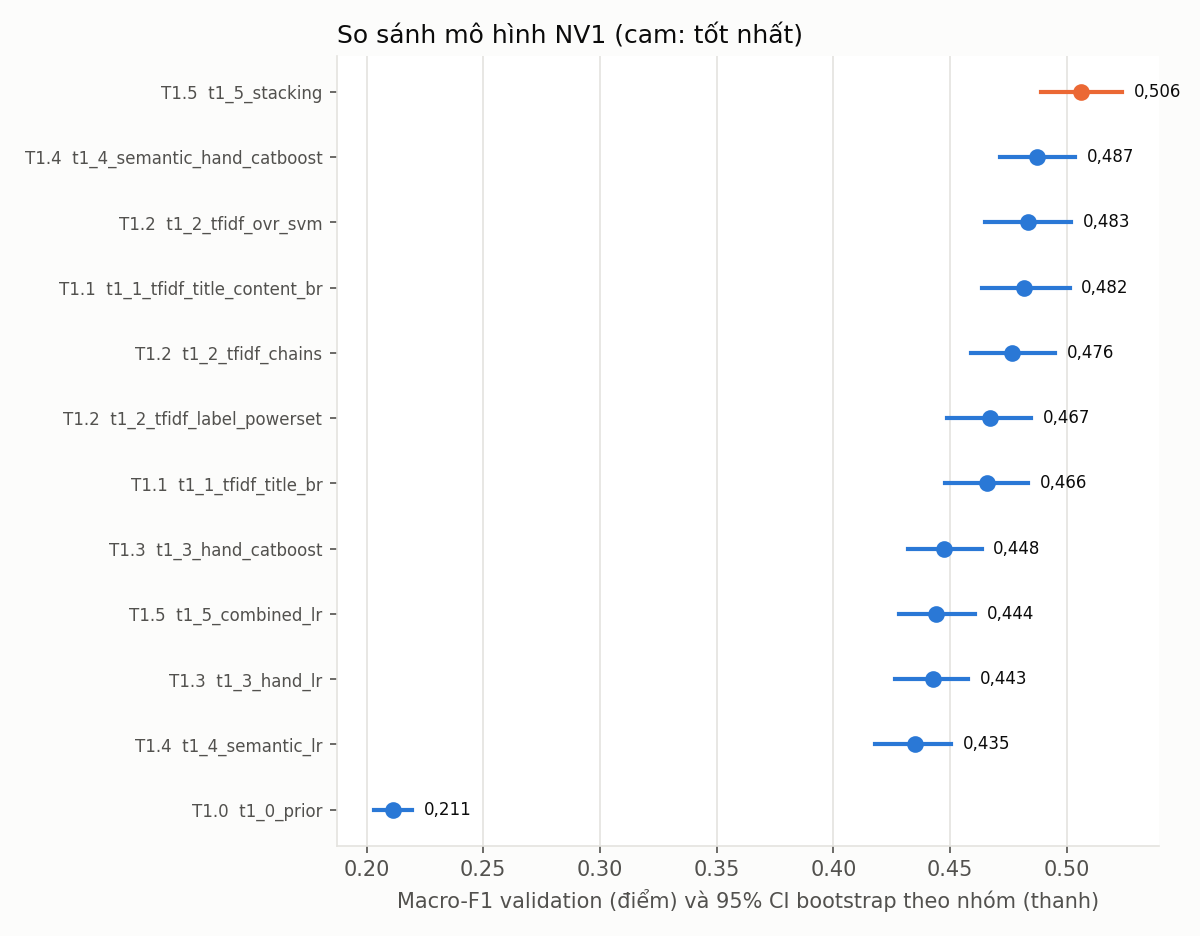
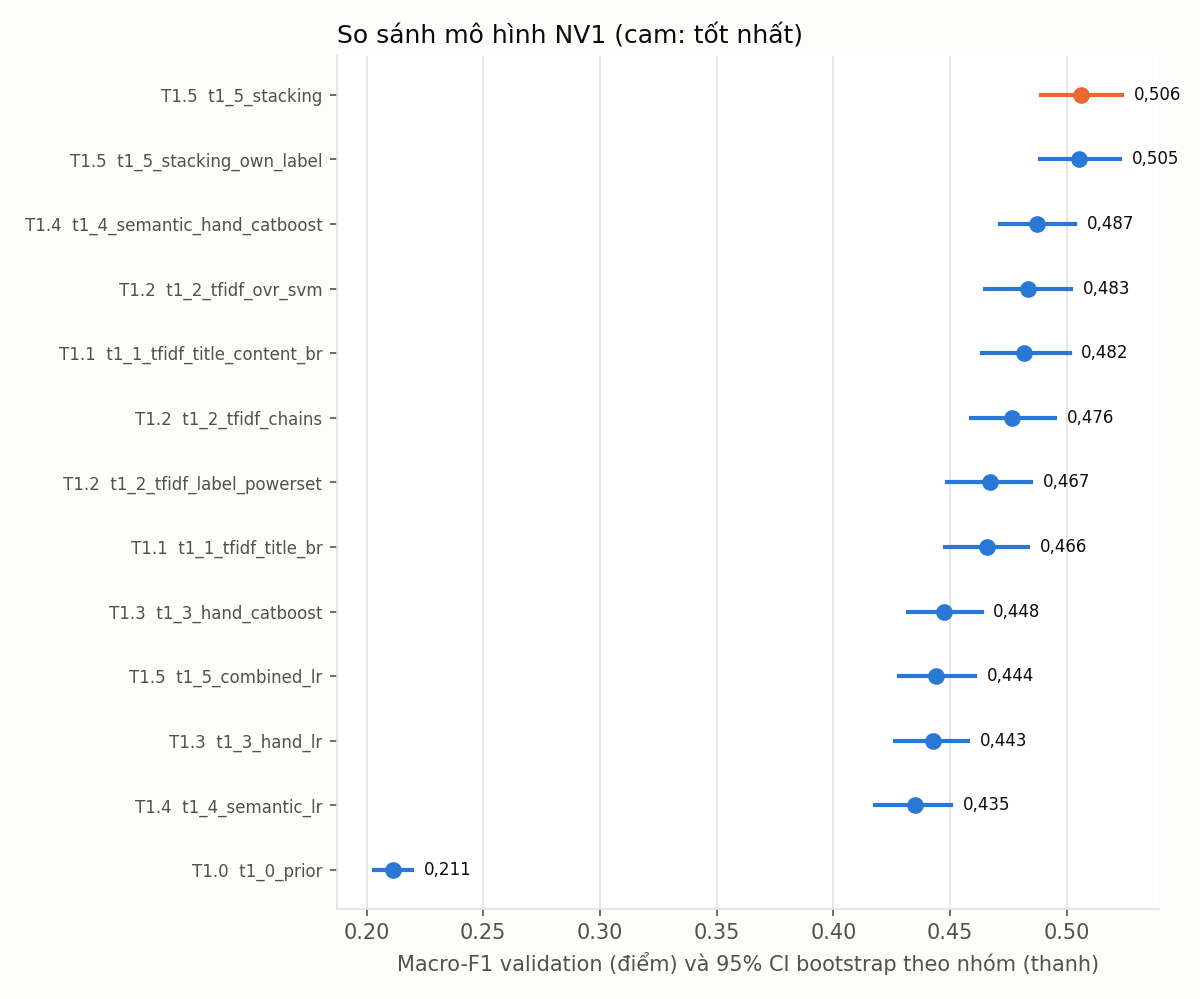
feat(type-classification): label-dependency and content ablations per label
Add StackingMeta(cross_label=False) and experiment t1_5_stacking_own_label: all-label logits give +0.001 Macro-F1 over own-label logits (p=0.43), so the stacking gain comes from fusing base models, not label dependency. Add per-label paired bootstrap (content helps Misleading, Emotional and Curiosity, not Question). Report answers the branch research questions; fix pipeline-bias wording and list extra training dependencies.

diff --git a/scripts/report_type_nv1.py b/scripts/report_type_nv1.py
@@ -114,6 +114,7 @@ def main():
         ("t1_2_tfidf_chains", "t1_1_tfidf_title_content_br"),
         ("t1_5_combined_lr", "t1_1_tfidf_title_content_br"),
         ("t1_5_stacking", "t1_5_combined_lr"),
+        ("t1_5_stacking", "t1_5_stacking_own_label"),
         ("t1_3_hand_catboost", "t1_0_prior"),
     ]
     tests = []
@@ -125,6 +126,27 @@ def main():
                 f"| `{a}` − `{b}` | {fmt(d['mean_diff'])} | [{fmt(d['ci95'][0])}; {fmt(d['ci95'][1])}] | "
                 f"{fmt(d['p_not_better'])} |"
             )
+    # ---- table 4b: per-label ablations (research questions 2 and 3 of the branch)
+    w("\n### Bảng 4b. Ablation theo từng nhãn (ΔF1, bootstrap ghép cặp theo nhóm leakage)\n")
+    w("| Ablation (A − B) | " + " | ".join(SHORT) + " |")
+    w("|---|" + "---:|" * 5)
+    ablations = [
+        ("Thêm nội dung", "t1_1_tfidf_title_content_br", "t1_1_tfidf_title_br"),
+        ("Logit mọi nhãn vs cùng nhãn", "t1_5_stacking", "t1_5_stacking_own_label"),
+    ]
+    label_tests = []
+    for name, a, b in ablations:
+        if a not in P or b not in P:
+            continue
+        cells = []
+        for i, t in enumerate(TYPES):
+            d = paired_bootstrap(P[a], TH[a], P[b], TH[b], Y, G, label=i)
+            label_tests.append({"ablation": name, "a": a, "b": b, "label": t, **d})
+            star = "*" if d["ci95"][0] > 0 or d["ci95"][1] < 0 else ""
+            v = f"{d['mean_diff']:+.3f}".replace("-0.000", "0.000").replace("+0.000", "0.000")
+            cells.append(f"{v}{star}".replace(".", ",").replace("-", "−"))
+        w(f"| {name} (`{a}` − `{b}`) | " + " | ".join(cells) + " |")
+    w("\n\\* khoảng tin cậy 95% không chứa 0.")
     # ---- table 5: per-label best method + logic
     w("\n### Bảng 5. Mô hình tốt nhất theo từng nhãn\n")
     w("| Nhãn | Mô hình tốt nhất | F1 | Mô hình chung tốt nhất (`" + best + "`) |")
@@ -160,6 +182,7 @@ def main():
         "best_overall": best,
         "best_per_label": best_per_label,
         "paired_tests": tests,
+        "per_label_ablations": label_tests,
         "errors_best": errors,
         "gold_i_predicted_j": conf.round(3).tolist(),
         "per_source_best": runs[best]["per_source_macro_f1"],

diff --git a/src/type_classification/multilabel.py b/src/type_classification/multilabel.py
@@ -280,14 +280,21 @@ CLASSIFIERS = {
 
 class StackingMeta:
     """Level-2 model: for each label, logistic regression on ALL base models' probabilities of
-    ALL labels -> learns cross-label dependencies (e.g. P(emotional) informs curiosity)."""
+    ALL labels -> learns cross-label dependencies (e.g. P(emotional) informs curiosity).
+    cross_label=False keeps only label k's columns from each base (ablation: does label
+    dependency help?). P is the base models' outputs stacked side by side, K columns each."""
 
-    def __init__(self, C=1.0):
-        self.C = C
+    def __init__(self, C=1.0, cross_label=True):
+        self.C, self.cross_label = C, cross_label
+
+    def _cols(self, k, n_cols):
+        return slice(None) if self.cross_label else list(range(k, n_cols, self.K))
 
     def fit(self, P, Y):
-        Z = self._z(P)
-        self.models = [_lr(self.C).fit(Z, Y[:, k]) for k in range(Y.shape[1])]
+        Z, self.K = self._z(P), Y.shape[1]
+        self.models = [
+            _lr(self.C).fit(Z[:, self._cols(k, Z.shape[1])], Y[:, k]) for k in range(self.K)
+        ]
         return self
 
     @staticmethod
@@ -297,4 +304,9 @@ class StackingMeta:
 
     def predict_proba(self, P):
         Z = self._z(P)
-        return np.column_stack([m.predict_proba(Z)[:, 1] for m in self.models])
+        return np.column_stack(
+            [
+                m.predict_proba(Z[:, self._cols(k, Z.shape[1])])[:, 1]
+                for k, m in enumerate(self.models)
+            ]
+        )

diff --git a/src/type_classification/evaluation.py b/src/type_classification/evaluation.py
@@ -99,9 +99,13 @@ def bootstrap_ci(P, Y, thresholds, groups, n=1000, seed=20261124, metric=macro_f
     return [float(np.percentile(stats, 2.5)), float(np.percentile(stats, 97.5))]
 
 
-def paired_bootstrap(Pa, tha, Pb, thb, Y, groups, n=2000, seed=20261124):
+def paired_bootstrap(Pa, tha, Pb, thb, Y, groups, n=2000, seed=20261124, label=None):
     """Macro-F1(a) - Macro-F1(b) on the same resampled groups: mean, 95% CI, one-sided p
-    (share of resamples where a is not better)."""
+    (share of resamples where a is not better). label=k compares F1 of label k only."""
+    if label is not None:
+        k = label
+        Pa, Pb, Y = Pa[:, [k]], Pb[:, [k]], Y[:, [k]]
+        tha, thb = [np.asarray(tha)[k]], [np.asarray(thb)[k]]
     rng = np.random.default_rng(seed)
     uniq, inv = np.unique(np.asarray(groups), return_inverse=True)
     members = [np.where(inv == g)[0] for g in range(len(uniq))]

diff --git a/tests/research/test_type_nv1.py b/tests/research/test_type_nv1.py
@@ -65,6 +65,17 @@ def test_stacking_meta_shapes():
     assert meta.predict_proba(np.hstack([P, P])).shape == Y.shape
 
 
+def test_stacking_own_label_ignores_other_labels():
+    X, Y = _toy()
+    P = multilabel.BinaryRelevance().fit(X, Y).predict_proba(X)
+    Ptr = np.hstack([P, P[::-1]])
+    meta = multilabel.StackingMeta(cross_label=False).fit(Ptr, Y)
+    Q = Ptr.copy()
+    Q[:, [1, 2, 3, 4, 6, 7, 8, 9]] = 0.5  # every column except label 0 of each base
+    assert np.allclose(meta.predict_proba(Ptr)[:, 0], meta.predict_proba(Q)[:, 0])
+    assert len(meta.models[0].coef_[0]) == 2
+
+
 def test_features_fit_only_on_given_rows():
     titles = ["giá vàng hôm nay", "giá xăng hôm nay", "vì sao giá vàng tăng"] * 4
     view = {

diff --git a/docs/type_classification/nv1/results_tables.md b/docs/type_classification/nv1/results_tables.md
@@ -15,6 +15,7 @@
 | T1.4 | `t1_4_semantic_lr` | **0,435** [0,418–0,451] | 0,462 | 0,172 | 0,472 | 0,404 | 0,457 |
 | T1.5 | `t1_5_combined_lr` | **0,444** [0,428–0,461] | 0,481 | 0,163 | 0,490 | 0,416 | 0,460 |
 | T1.5 | `t1_5_stacking` | **0,506** [0,489–0,524] | 0,535 | 0,135 | 0,556 | 0,471 | 0,516 |
+| T1.5 | `t1_5_stacking_own_label` | **0,505** [0,488–0,523] | 0,530 | 0,136 | 0,556 | 0,468 | 0,519 |
 
 ### Bảng 2. F1 từng nhãn (validation)
 
@@ -32,6 +33,7 @@
 | `t1_4_semantic_lr` | 0,526 | 0,505 | 0,489 | 0,521 | 0,135 |
 | `t1_5_combined_lr` | 0,538 | 0,525 | 0,498 | 0,511 | 0,149 |
 | `t1_5_stacking` | 0,569 | 0,551 | 0,544 | 0,646 | 0,220 |
+| `t1_5_stacking_own_label` | 0,566 | 0,543 | 0,553 | 0,647 | 0,218 |
 
 ### Bảng 3. Ảnh hưởng của chiến lược threshold (Macro-F1 validation)
 
@@ -49,6 +51,7 @@
 | `t1_4_semantic_lr` | 0,429 | 0,432 | 0,435 |
 | `t1_5_combined_lr` | 0,442 | 0,442 | 0,444 |
 | `t1_5_stacking` | 0,465 | 0,498 | 0,506 |
+| `t1_5_stacking_own_label` | 0,470 | 0,501 | 0,505 |
 
 ### Bảng 4. Kiểm định bootstrap ghép cặp (theo nhóm leakage, 2.000 lần)
 
@@ -59,7 +62,17 @@
 | `t1_2_tfidf_chains` − `t1_1_tfidf_title_content_br` | -0,005 | [-0,014; 0,003] | 0,887 |
 | `t1_5_combined_lr` − `t1_1_tfidf_title_content_br` | -0,038 | [-0,054; -0,022] | 1,000 |
 | `t1_5_stacking` − `t1_5_combined_lr` | 0,062 | [0,048; 0,075] | 0,000 |
+| `t1_5_stacking` − `t1_5_stacking_own_label` | 0,001 | [-0,006; 0,008] | 0,428 |
 | `t1_3_hand_catboost` − `t1_0_prior` | 0,236 | [0,222; 0,251] | 0,000 |
+
+### Bảng 4b. Ablation theo từng nhãn (ΔF1, bootstrap ghép cặp theo nhóm leakage)
+
+| Ablation (A − B) | Curiosity | Exaggeration | Emotional | Question | Misleading |
+|---|---:|---:|---:|---:|---:|
+| Thêm nội dung (`t1_1_tfidf_title_content_br` − `t1_1_tfidf_title_br`) | +0,016* | +0,013 | +0,028* | −0,009 | +0,030* |
+| Logit mọi nhãn vs cùng nhãn (`t1_5_stacking` − `t1_5_stacking_own_label`) | +0,003 | +0,008 | −0,010 | 0,000 | +0,002 |
+
+\* khoảng tin cậy 95% không chứa 0.
 
 ### Bảng 5. Mô hình tốt nhất theo từng nhãn
 
@@ -67,7 +80,7 @@
 |---|---|---:|---:|
 | Curiosity | `t1_5_stacking` | 0,569 | 0,569 |
 | Exaggeration | `t1_5_stacking` | 0,551 | 0,551 |
-| Emotional | `t1_5_stacking` | 0,544 | 0,544 |
+| Emotional | `t1_5_stacking_own_label` | 0,553 | 0,544 |
 | Question | `t1_3_hand_catboost` | 0,651 | 0,646 |
 | Misleading | `t1_5_stacking` | 0,220 | 0,220 |
 
